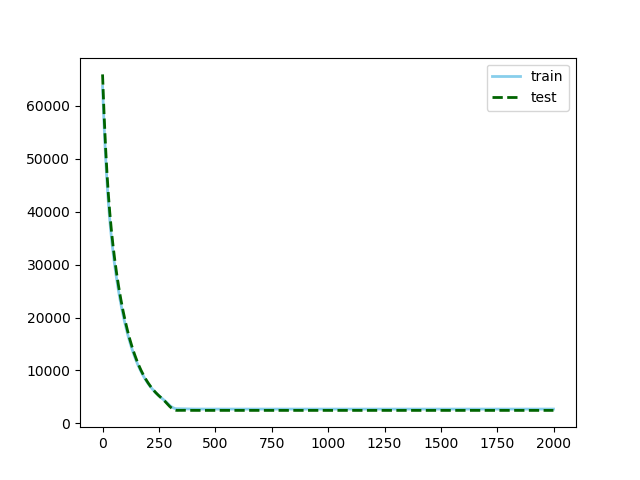
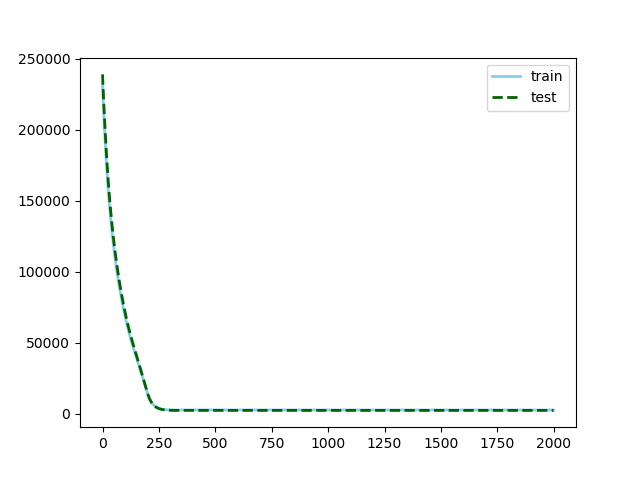
results update

diff --git a/src/dummy_train.py b/src/dummy_train.py
@@ -19,17 +19,17 @@ if __name__ == "__main__":
     pd.set_option('display.width', 1000)
     project_dir = str(Path(__file__).parent.parent)
 
-    data = np.unique(np.sort(np.random.poisson(lam=(np.repeat(np.tile(np.arange(5), 50),20)+1)*100)))
+    data = np.unique(np.sort(np.round(np.random.exponential(size=(1000,))*100)))
     sns.distplot(data.flatten())
     plt.show()
 
-    train_data = data[:400]
-    test_data = data[400:]
+    train_data = data[:200]
+    test_data = data[200:]
     train_time = torch.tensor(train_data).type('torch.FloatTensor').reshape(1, -1, 1)
     test_time = torch.tensor(test_data).type('torch.FloatTensor').reshape(1, -1, 1)
-    in_size = 100
+    in_size = 50
     out_size = 1
-
+    no_epochs=200
     learning_param_map = [
         {'rule': 'Euler', 'no_step': 10, 'learning_rate': 0.01},
         # {'rule': 'Implicit Euler', 'no_step': 10, 'learning_rate': 0.01},
@@ -45,9 +45,6 @@ if __name__ == "__main__":
     print(f'Train size: {str(train_time.shape[1])}, test size: {str(test_time.shape[1])} ('
           f'{round((test_time.shape[1] / (train_time.shape[1] + test_time.shape[1])), 2)} %).')
 
-    in_size = 100
-    out_size = 1
-    no_epochs = 2000
     evaluation_df = pd.DataFrame(columns=['model_name', 'rule', 'no_step', 'learning_rate', 'training_time',
                                           'nr_of_reinit', 'loss_on_train', 'loss_on_test'])
 
